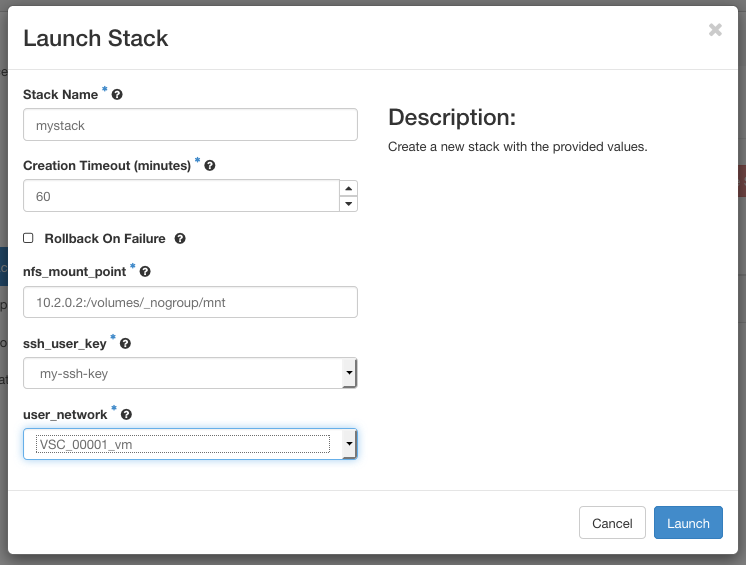
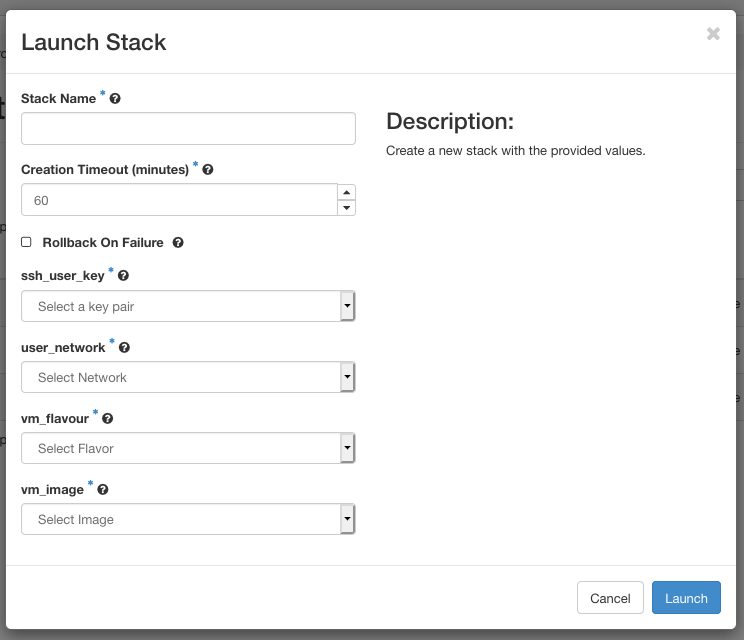
Heat templates: update examples, restructure.

diff --git a/intro-Cloud/ch_HeatTemplates.tex b/intro-Cloud/ch_HeatTemplates.tex
@@ -3,13 +3,12 @@
 can manage complete configurations of all servers, volumes, users,
 networks and routers that make up a cloud application.  Instead of
 managing every component separately, we can create, start, stop or
-clean up our complete application in a single step.  Such a set of
-collectively managed resources is called a \gls{stack}.
+clean up our complete application in a single step.  In OpenStack,
+such a collection of resources is called a \gls{stack}.
 
 \gls{Heat} has its own dashboard interface, which you can find under
-the \strong{Orchestration} tab of the main OpenStack dashboard.  Official
-documentation for Heat and its dashboard interface can be found at the
-following locations:
+the \strong{Orchestration} tab.  Official documentation for Heat and
+its dashboard interface can be found at the following locations:
 \begin{itemize}
 \item \url{https://docs.openstack.org/heat/\osversion}
 \item \url{https://docs.openstack.org/heat-dashboard/\osversion}
@@ -20,34 +19,59 @@ A \gls{stack}'s resources and their mutual dependencies can be
 specified in a text file, called a \gls{Heat Orchestration Template}
 (\textsc{hot}).  The syntax of these templates conforms to the
 \gls{yaml} standard, for which many text editors provide specialized
-editing modes.  The following example describes a stack consisting of
+editing modes.  The
+`\href{https://docs.openstack.org/heat/\osversion/template_guide}{Template
+  Guide}' in the Heat documentation contains a specification of the
+\textsc{hot} format, as well as information on how to describe the
+various types of resources in a template.
+
+\textsc{vsc} provides some example templates at
+\href{https://github.com/hpcugent/openstack-templates}{github.com/hpcugent/openstack-templates},
+which can serve as a starting point for your own templates, or as
+examples.
+
+The following example describes a stack consisting of
 a single VM:
 \begin{code}{}
-heat_template_version: 2018-03-02
+heat_template_version: 2018-08-31
 
-description: Deploy a single compute instance
+description: This template instantiates a basic VM.
 
 parameters:
-  user_network:
-    type: string
-    label: user_network
-    description: Add the required VM network
-    constraints: [ custom_constraint: neutron.network ]
-  user_key:
-    type: string
-    label: ssh_user_key
-    description: Public ssh key for user authentication
-    constraints: [ custom_constraint: nova.keypair ]
+    user_key:
+        type: string
+        label: ssh_user_key
+        description: Public user ssh key to be injected in the cluster VMs
+        constraints: [ custom_constraint: nova.keypair ]
+    vm_flavour:
+        type: string
+        label: vm_flavour
+        description: Flavour for the VM
+        constraints: [ custom_constraint: nova.flavor ]
+    vm_image:
+        type: string
+        label: vm_image
+        description: Required VM image
+        constraints: [ custom_constraint: glance.image ]
+    user_network:
+        type: string
+        label: user_network
+        description: Add the required VM network
+        constraints: [ custom_constraint: neutron.network ]
 
 resources:
-  my_instance:
-    type: OS::Nova::Server
-    properties:
-      security_groups: [ default ]
-      networks: [ network: { get_param: user_network } ]
-      key_name: { get_param: user_key }
-      image: Ubuntu_16.04_2NICs
-      flavor: m1.small
+    my_server:
+        type: OS::Nova::Server
+        properties:
+          name: MyServer
+          metadata:
+              server: master
+              color: red
+          security_groups: [ default ]
+          networks: [ network: { get_param: user_network } ]
+          key_name: { get_param: user_key }
+          image: { get_param: vm_image }
+          flavor: { get_param: vm_flavour }
 \end{code}
 
 Our example contains four main sections:
@@ -57,26 +81,21 @@ Our example contains four main sections:
   \lstinline{heat_template_version} indicates the version of the
   syntax used in this template.  It's value can be a release date or
   (in recent version) the name of the version.
-\item[\texttt{description}] A description is optional, but
+\item[\texttt{description}] Providing a description is optional, but
   recommended.
-\item[\texttt{parameters}] An optional section, \lstinline{parameters}
-  allow users to configure various properties when instantiating a new
-  stack, without having to edit the template itself.  A parameter
-  value can be used elsewhere in the template using the function
-  \lstinline{get_param}.
+\item[\texttt{parameters}] Another optional section,
+  \lstinline{parameters} allow users to configure various properties
+  when instantiating a new stack, without having to edit the template
+  itself.  A parameter value can be used elsewhere in the template
+  using the function \lstinline{get_param}.  In this example, we use
+  parameters to choose an SSH key, instance size (``flavor''), image,
+  and a network.
 \item[\texttt{resources}] This section contains all the resources used
-  by the Stack.  In this case, there is just a single VM instance.
+  by the Stack.  In this case, there is just a single VM instance
+  (OS::Nova::Server).
 \end{description}
 Optional additional sections are \strong{\lstinline{parameter_groups}},
 \strong{\lstinline{outputs}}, and \strong{\lstinline{conditions}}.
-
-The
-`\href{https://docs.openstack.org/heat/\osversion/template_guide}{Template
-  Guide}' in the Heat documentation contains a specification of the
-\textsc{hot} format, as well as information on how to describe the
-various types of resources in a template.  \textsc{vsc} also provides
-some example templates in the repository
-\url{https://github.com/hpcugent/openstack-templates}.
 
 \section{The Template Generator}\label{sec:template-generator}
 The Heat dashboard provides a graphical interface where users can draw
@@ -101,58 +120,83 @@ The overview page contains a list of all currently existing stacks
 (either running or suspended), and buttons to perform the following
 actions:
 
+\subsection*{Launch a stack}
+\begin{enumerate}
+\item Click \strong{Launch Stack} to open the following wizard:
+\begin{center}
+  \includegraphics[width=0.7\textwidth]{img/launch_stack_template}
+\end{center}
+\item Provide a template and --- optionally --- an environment for the stack.
 \begin{description}
-\item{\strong{Launch Stack}} starts a wizard to create a stack from a
-  template.  Depending on your choice of \strong{Template Source}, you
-  can provide a local file on your system, directly type (or paste)
-  the template text, or enter a \textsc{url} to download a template
-  from that location.  You can also immediately launch a stack from
-  the template generator (see section \ref{sec:template-generator})
-  using the button \strong{\textsc{create stack}}.
-\item{\strong{Preview Stack}} starts a similar wizard, but only
-  performs a sanity check of your template, without instantiating the
-  stack.  If the check passes, you can inspect the parameters of the
-  stack that would be created.  The wizard does not allow you to enter
-  input parameter values, so any mandatory input parameters should be
-  provided in an environment (see
-  `\href{https://docs.openstack.org/heat/\osversion/template_guide/environment.html}{Environments}'
-  in the Heat template guide).
-\item{\strong{Delete Stacks}} deletes the marked stacks.  Beware that
-  deleting a stack also deletes all of a stack's physical resources,
-  unless a different policy was set in the
-  \strong{\lstinline{deletion\_policy}} property for those resources
-  (see the item
-  `\href{https://docs.openstack.org/heat/\osversion/template_guide/hot_spec.html#resources-section}{Resources
-    section}' in the \textsc{hot} specification).
-\item{\strong{More Actions}} hides the following additional actions:
+\item[Template Source] You can provide a template using one of the
+  following options:
   \begin{description}
-  \item{\strong{Check Stacks}} verifies if the resources for selected
-    stacks are still running.
-  \item{\strong{Suspend Stacks}} suspends all resources of the
-    selected stacks.
-  \item{\strong{Resume Stacks}} resumes the selected (suspended) stacks.
+  \item[File] Provide a local file on your system.
+  \item[Direct Input] Enter the template in a text field.
+  \item[URL] Provide a \textsc{URL} to have OpenStack download the
+    template from that location.
   \end{description}
+  In our example, we provide a \textsc{URL} from the repository
+  \href{https://github.com/hpcugent/openstack-templates}{github.com/hpcugent/openstack-templates},
+  to instantiate the example from section \ref{sec:glsh-orch-templ}.
+  If you want to provide a template directly from Github, make sure to
+  provide a ``Raw'' \textsc{URL},
+  \lstinline{https://raw.githubusercontent.com/}\ldots.
+
+\item[Environment Source] Optionally, you can also provide an
+  environment file.  This is another \textsc{yaml} file, which
+  contains customizations for your Heat templates, such as default
+  values for parameters, or custom resource types you have created
+  (see
+  `\href{https://docs.openstack.org/heat/\osversion/template_guide/environment.html}{Environments}'
+  in the Heat template guide).  You can provide a \strong{File} or
+  choose \strong{Direct Input}.
 \end{description}
+\item If you click \strong{Next}, OpenStack will process the template.
+  You can now enter a name for the stack, and provide values for all
+  the template parameters:
+
+  \begin{center}
+    \includegraphics[width=0.7\textwidth]{img/launch_stack_parameters}
+  \end{center}
+\item Click \strong{Launch} to instantiate the stack.
+\end{enumerate}
+
+\subsection*{Preview Stack}
+\strong{Preview Stack} starts a wizard similar to the ``Launch Stack''
+wizard, but completing the wizard will only make the system perform a
+sanity check of your template, without instantiating the stack.  If
+the check passes, you can inspect the parameters of the stack that
+would be created.  The wizard does not allow you to enter input
+parameter values, so any mandatory input parameters should be provided
+in an environment.
+
+\subsection*{Delete Stacks}
+\strong{Delete Stacks} deletes all selected stacks from the list .
+
+\strong{Warning:} Deleting a stack also deletes all of the resources
+(volumes, ports) created by that stack, unless a different policy was
+set in the \strong{\lstinline{deletion\_policy}} property for those
+resources (see the
+`\href{https://docs.openstack.org/heat/\osversion/template_guide/hot_spec.html#resources-section}{Resources
+  section}' in the \textsc{hot} specification).
+
+\subsection*{More Actions}
+The button \strong{More Actions} hides the following additional
+actions:
+
+\begin{description}
+\item{\strong{Check Stacks}} verifies if the resources for selected
+  stacks are still running.
+\item{\strong{Suspend Stacks}} suspends all resources of the selected
+  stacks.
+\item{\strong{Resume Stacks}} resumes the selected (suspended) stacks.
+\end{description}
+
 You can quickly suspend, resume or delete a single stack using the
 drop-down menu in the \strong{Actions} column of the overview.  This
 menu also contains the option \strong{Change Stack Template}, which
 allows you to update a Stack by providing a new template.
-
-\subsubsection{Example: launching a stack}
-We can instantiate one of the examples from the \textsc{vsc}
-repository \url{https://github.com/hpcugent/openstack-templates} by
-providing a ``raw'' Github url:
-\begin{center}
-  \includegraphics[width=0.7\textwidth]{img/launch_stack_template}
-\end{center}
-If the template uses parameters, we can specify their values on the
-next page of the wizard.  In our example, \strong{nfs\_mount\_point},
-\strong{ssh\_user\_key} and \strong{user\_network} are the template
-parameters.
-\begin{center}
-  \includegraphics[width=0.7\textwidth]{img/launch_stack_parameters}
-\end{center}
-Finally, press the Launch button to create the stack.
 
 %%% Local Variables:
 %%% mode: latex
